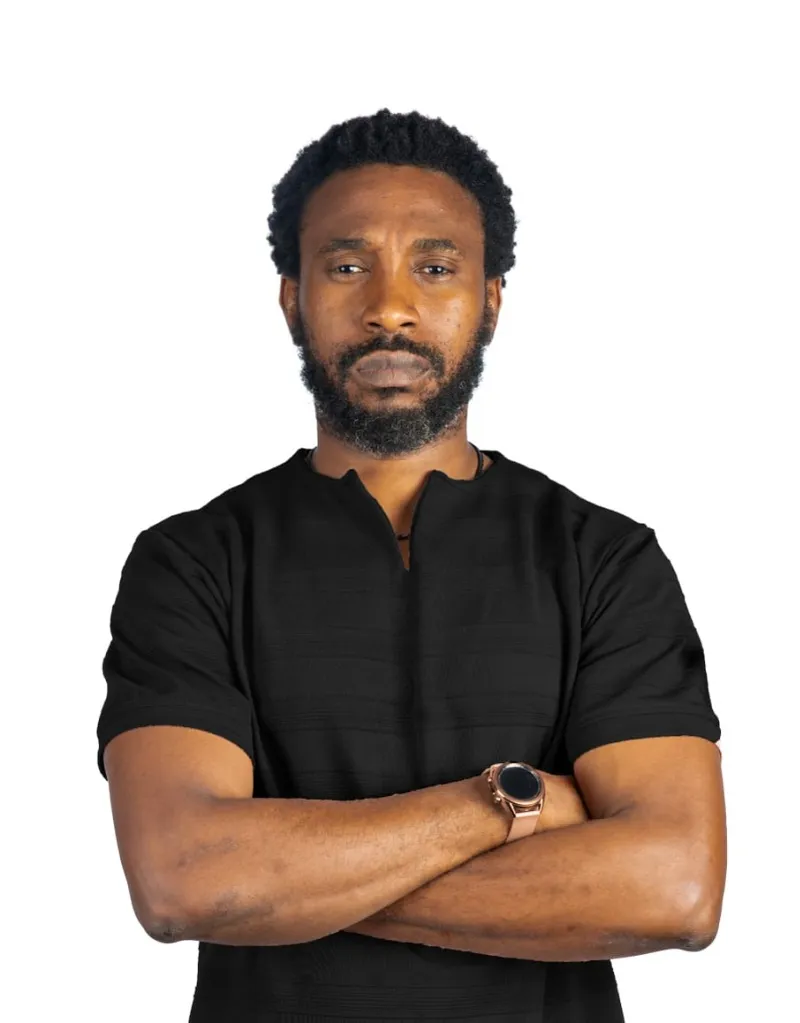
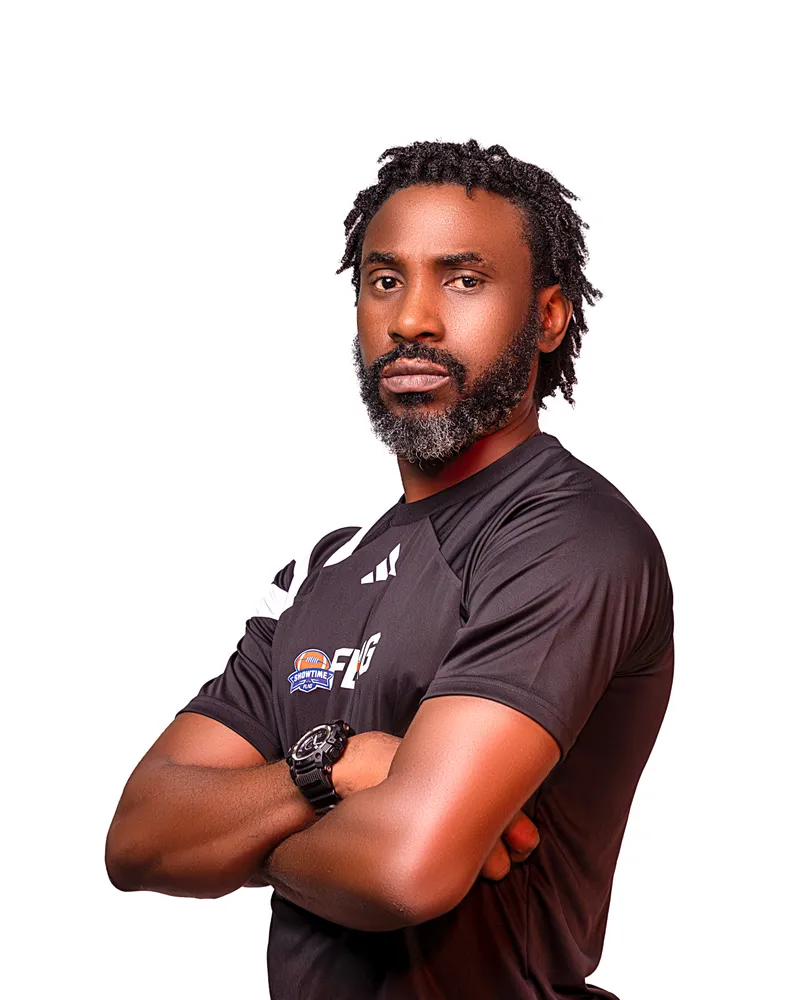
feat(about): redesign Our Team page and move FAQs into footer About column
Replaces the repetitive full-width leadership cards with a featured
navy band for the President and a sharp-cornered grid for the rest of
league leadership, trims every bio to two Showtime-centered paragraphs,
and adds a cropped team banner (converted to WebP, lazy-loaded). Also
updates the two VP/Commissioner headshots and makes the About hero's
background image span full width instead of cropping or shrinking.

Footer: FAQs now lives under About instead of Rules & Policy.

diff --git a/frontend/src/pages/about/OurTeam.tsx b/frontend/src/pages/about/OurTeam.tsx
@@ -3,7 +3,7 @@ interface TeamMember {
   role: string;
   image?: string;
   bio: string[];
-  /** Optional pill badge shown above the name (e.g. "Executive Leadership"). */
+  /** Eyebrow label shown above the name (e.g. "Executive Leadership"). */
   badge?: string;
 }
 
@@ -13,12 +13,8 @@ const PRESIDENT: TeamMember = {
   image: "/images/leadership/azeez_amida.webp",
   badge: "Executive Leadership",
   bio: [
-    "Azeez Amida is the Founder and President of Showtime Flag Football League and one of the leading figures behind the growth and professionalisation of flag football in Nigeria.",
-    "Under his leadership, Showtime has evolved into one of the world’s fastest growing coed professional flag football league, creating structured competitive and development opportunities for hundreds of male and female athletes.",
-    "His vision is to build Showtime into a nationally relevant sports and media institution that develops talent, creates sustainable sporting careers, strengthens communities and presents Nigerian flag football to a global audience.",
-    "Beyond sport, Amida is a business executive, investor and author with more than two decades of professional experience. He is the President and Founder of Fusewall Holdings, Chairman of Coloplus Limited, and a former Chief Executive Officer of Pan African Towers and IHS Rwanda. His experience in building and transforming businesses continues to shape Showtime’s commercial strategy, operating discipline and long-term ambition.",
-    "Amida is the author of How to Grow Anything: A 6-Step Guide for Growing People, Businesses and Ideas and EPE Principle: Enter, Perform, Exit. His work explores leadership, organisational transformation, career development and the systems required to achieve sustainable growth.",
-    "Connect with him across social media at @azeezamida.",
+    "Azeez Amida is the Founder and President of Showtime Flag Football League, one of the leading figures behind the growth and professionalisation of flag football in Nigeria. Under his leadership, Showtime has grown into one of the world's fastest-growing coed professional flag football leagues, creating structured competitive and development opportunities for hundreds of male and female athletes.",
+    "His vision is to build Showtime into a nationally relevant sports and media institution — developing talent, creating sustainable sporting careers, strengthening communities, and presenting Nigerian flag football to a global audience. A business executive and investor with more than two decades of experience, he brings that expertise directly to Showtime's commercial strategy, operating discipline, and long-term ambition.",
   ],
 };
 
@@ -28,121 +24,199 @@ const COMMISSIONER: TeamMember = {
   image: "/images/leadership/adebare_adejumo.webp",
   badge: "League Administration",
   bio: [
-    "Adebare Adejumo serves as the League Commissioner of Showtime Flag, where he oversees the governance, competitive integrity, and overall sporting operations of the league.",
-    "As the chief steward of competition, he works closely with teams, officials, and league stakeholders to ensure that Showtime Flag maintains the highest standards of fairness, professionalism, and excellence on and off the field. His leadership is instrumental in shaping league policies, managing competition structures, and supporting the continued growth of flag football across Nigeria and beyond.",
-    "Driven by a passion for sport development and athlete success, he remains committed to creating an environment where players, teams, and communities can thrive while advancing Showtime Flag's vision of becoming a leading force in global flag football.",
+    "Adebare Adejumo serves as the League Commissioner of Showtime Flag, overseeing the governance, competitive integrity, and overall sporting operations of the league. As chief steward of competition, he works closely with teams, officials, and league stakeholders to uphold the highest standards of fairness, professionalism, and excellence on and off the field.",
+    "His leadership shapes league policies, competition structures, and the continued growth of flag football across Nigeria and beyond — driven by a commitment to athlete success and an environment where players, teams, and communities can thrive.",
   ],
 };
 
-const LEADERS: TeamMember[] = [
-  {
-    name: "Kalu Esther",
-    role: "VP, Operations",
-    image: "/images/leadership/kalu_esther.webp",
-    badge: "Vice President",
-    bio: [
-      "Esther Kalu serves as the Vice President of Operations at Showtime Flag, overseeing the administrative and operational systems that support the league's day-to-day activities.",
-      "She plays a critical role in ensuring organizational efficiency, managing internal processes, coordinating logistics, and providing operational support across league functions. Her attention to detail and commitment to excellence help create the structure and stability necessary for Showtime Flag to deliver exceptional experiences for players, partners, and fans.",
-      "With a strong focus on organization and execution, she helps ensure that the league continues to operate smoothly while supporting its long-term growth and development.",
-    ],
-  },
-  {
-    name: "Ivie Okuns",
-    role: "VP, Commercials",
-    badge: "Vice President",
-    bio: [
-      "Ivie Okuns serves as the Vice President of Commercials at Showtime Flag, where she leads the league's commercial strategy, brand development, marketing, partnerships, and audience growth initiatives.",
-      "With a passion for building communities through sport and storytelling, Ivie has played a key role in shaping Showtime Flag's brand identity and expanding its reach among fans, partners, and stakeholders. Her work spans sponsorship acquisition, content strategy, digital marketing, event promotion, and business development, helping to position Showtime Flag as one of Africa's most innovative and fast-growing sports properties.",
-      "She remains committed to advancing Showtime Flag's mission of growing flag football, fostering community, and creating pathways for participation and excellence across the sport.",
-    ],
-  },
-];
+const KALU_ESTHER: TeamMember = {
+  name: "Kalu Esther",
+  role: "VP, Operations",
+  image: "/images/leadership/kalu_esther.webp",
+  badge: "Vice President",
+  bio: [
+    "Esther Kalu serves as Vice President of Operations at Showtime Flag, overseeing the administrative and operational systems that support the league's day-to-day activities.",
+    "She ensures organizational efficiency, manages internal processes, and coordinates logistics across league functions — the structure and stability behind every exceptional experience Showtime delivers for players, partners, and fans.",
+  ],
+};
 
-// Horizontal card with the picture on the left (top on mobile) and the
-// bio block on the right.
-const TeamMemberCard = ({ member }: { member: TeamMember }) => (
-  <div className="bg-white dark:bg-gray-800 rounded-2xl border border-gray-100 dark:border-gray-700 shadow-xl overflow-hidden group">
-    <div className="flex flex-col md:flex-row items-stretch">
-      {/* Image Container */}
-      <div className="w-full md:w-2/5 min-h-72 sm:min-h-90 md:min-h-115 relative overflow-hidden bg-gray-100 dark:bg-gray-900">
+const IVIE_OKUNS: TeamMember = {
+  name: "Ivie Okuns",
+  role: "VP, Commercials",
+  badge: "Vice President",
+  bio: [
+    "Ivie Okuns serves as Vice President of Commercials at Showtime Flag, leading the league's commercial strategy, brand development, marketing, partnerships, and audience growth.",
+    "Her work spans sponsorship, content strategy, digital marketing, and event promotion — shaping Showtime's brand identity and positioning it as one of Africa's most innovative, fast-growing sports properties.",
+  ],
+};
+
+const LEADERSHIP_TEAM: TeamMember[] = [COMMISSIONER, KALU_ESTHER, IVIE_OKUNS];
+
+// Flat navy feature band for the founder, reusing the Incubator section's
+// visual language (AboutShowtimeFlag.tsx) so top billing comes from scale
+// and color, not a different card style.
+const PresidentBand = ({ member }: { member: TeamMember }) => {
+  const initials = member.name
+    .split(" ")
+    .map((n) => n[0])
+    .join("");
+
+  return (
+    <section className="relative overflow-hidden bg-linear-to-r from-gray-900 to-sffl-navy text-white group">
+      <div className="flex flex-col md:flex-row items-stretch">
+        {/* Photo */}
+        <div className="relative w-full md:w-2/5 min-h-80 sm:min-h-96 overflow-hidden bg-black/20">
+          {member.image ? (
+            <img
+              src={member.image}
+              alt={member.name}
+              loading="lazy"
+              decoding="async"
+              className="absolute inset-0 h-full w-full object-cover object-top transition-transform duration-500 group-hover:scale-105"
+              onError={(e) => {
+                e.currentTarget.style.display = "none";
+              }}
+            />
+          ) : (
+            <div className="absolute inset-0 flex flex-col items-center justify-center bg-white/5 border border-white/10">
+              <span className="text-6xl font-black text-white/30">
+                {initials}
+              </span>
+              <span className="mt-3 text-[10px] font-black uppercase tracking-widest text-white/50">
+                Photo Coming Soon
+              </span>
+            </div>
+          )}
+          <div
+            className="absolute inset-0 bg-linear-to-t from-black/40 via-transparent to-transparent"
+            aria-hidden="true"
+          />
+        </div>
+
+        {/* Content */}
+        <div className="w-full md:w-3/5 p-5 sm:p-8 md:p-10 lg:p-12 flex flex-col justify-center gap-5 min-w-0">
+          {member.badge && (
+            <p className="flex items-center gap-3 text-[11px] font-black uppercase tracking-[0.25em] text-white/80">
+              <span
+                className="h-px w-8 shrink-0 bg-sffl-red"
+                aria-hidden="true"
+              />
+              {member.badge}
+            </p>
+          )}
+          <div>
+            <h2 className="text-3xl sm:text-4xl lg:text-5xl font-black uppercase leading-[0.95] tracking-tight text-white wrap-break-word">
+              {member.name}
+            </h2>
+            <p className="mt-2 text-base md:text-lg font-bold uppercase tracking-wide text-sffl-gold">
+              {member.role}
+            </p>
+          </div>
+          <span className="h-1 w-12 bg-sffl-red" aria-hidden="true" />
+          <div className="space-y-4">
+            {member.bio.map((para, index) => (
+              <p
+                key={index}
+                className="text-sm md:text-base text-gray-200 leading-relaxed font-medium"
+              >
+                {para}
+              </p>
+            ))}
+          </div>
+        </div>
+      </div>
+    </section>
+  );
+};
+
+// Compact vertical card for the league-leadership grid.
+const LeadershipCard = ({ member }: { member: TeamMember }) => {
+  const initials = member.name
+    .split(" ")
+    .map((n) => n[0])
+    .join("");
+
+  return (
+    <article className="group flex flex-col border border-gray-200 dark:border-gray-700 border-t-4 border-t-sffl-red bg-white dark:bg-gray-800">
+      <div className="relative w-full aspect-4/5 overflow-hidden bg-gray-100 dark:bg-gray-900">
         {member.image ? (
           <img
             src={member.image}
             alt={member.name}
             loading="lazy"
             decoding="async"
-            className="absolute inset-0 w-full h-full object-cover object-top transition-transform duration-500 group-hover:scale-105"
+            className="absolute inset-0 h-full w-full object-cover object-top transition-transform duration-500 group-hover:scale-105"
             onError={(e) => {
               e.currentTarget.style.display = "none";
             }}
           />
         ) : (
           <div className="absolute inset-0 bg-linear-to-br from-sffl-navy to-gray-900 flex flex-col items-center justify-center text-white">
-            <span className="text-5xl font-black opacity-40">
-              {member.name
-                .split(" ")
-                .map((n) => n[0])
-                .join("")}
-            </span>
-            <span className="text-[10px] font-black uppercase tracking-widest mt-3 opacity-60">
+            <span className="text-4xl font-black opacity-40">{initials}</span>
+            <span className="mt-3 text-[10px] font-black uppercase tracking-widest opacity-60">
               Photo Coming Soon
             </span>
           </div>
         )}
-        <div className="absolute inset-0 bg-linear-to-t from-gray-900/50 via-transparent to-transparent" />
       </div>
-      {/* Content */}
-      <div className="w-full md:w-3/5 p-4 sm:p-6 md:p-10 flex flex-col justify-center space-y-4 min-w-0">
+
+      <div className="flex flex-1 flex-col gap-3 p-5 sm:p-6 min-w-0">
+        {member.badge && (
+          <p className="flex items-center gap-2 text-[10px] font-black uppercase tracking-[0.2em] text-gray-500 dark:text-gray-400">
+            <span
+              className="h-px w-6 shrink-0 bg-sffl-red"
+              aria-hidden="true"
+            />
+            {member.badge}
+          </p>
+        )}
         <div>
-          {member.badge && (
-            <span className="px-3 py-1 bg-sffl-red text-white text-[10px] md:text-xs font-black uppercase rounded-full tracking-wider">
-              {member.badge}
-            </span>
-          )}
-          <h2
-            className={`text-2xl md:text-4xl font-black text-sffl-navy dark:text-white uppercase tracking-tight wrap-break-word ${member.badge ? "mt-3" : ""}`}
-          >
+          <h3 className="text-xl sm:text-2xl font-black text-sffl-navy dark:text-white uppercase tracking-tight wrap-break-word">
             {member.name}
-          </h2>
-          <p className="text-base md:text-lg text-sffl-red font-bold uppercase tracking-wide mt-1">
+          </h3>
+          <p className="mt-1 text-sm font-bold uppercase tracking-wide text-sffl-red">
             {member.role}
           </p>
         </div>
-        <div className="w-12 h-1 bg-sffl-red rounded" />
+        <span className="h-1 w-10 bg-sffl-red" aria-hidden="true" />
         <div className="space-y-3">
           {member.bio.map((para, index) => (
             <p
               key={index}
-              className="text-xs md:text-sm text-gray-600 dark:text-gray-300 leading-relaxed font-medium"
+              className="text-xs sm:text-sm text-gray-600 dark:text-gray-300 leading-relaxed font-medium"
             >
               {para}
             </p>
           ))}
         </div>
       </div>
-    </div>
-  </div>
-);
+    </article>
+  );
+};
 
 export const OurTeam = () => {
   return (
     <div className="space-y-8 md:space-y-12">
-      {/* Founder & President */}
-      <TeamMemberCard member={PRESIDENT} />
+      <div className="h-44 sm:h-56 md:h-72 lg:h-125 w-full overflow-hidden bg-gray-100 dark:bg-gray-900">
+        <img
+          src="/images/team/team-photo-1.webp"
+          alt="The Showtime Flag Football team"
+          loading="lazy"
+          decoding="async"
+          className="h-full w-full object-cover object-top"
+        />
+      </div>
 
-      {/* Commissioner Highlight */}
-      <TeamMemberCard member={COMMISSIONER} />
+      <PresidentBand member={PRESIDENT} />
 
-      {/* Vice Presidents */}
       <div className="space-y-6">
-        <div className="text-center md:text-left border-b border-gray-100 dark:border-gray-700 pb-3">
-          <h3 className="text-xl md:text-2xl font-black text-sffl-navy dark:text-white uppercase tracking-tight">
-            Vice Presidents
-          </h3>
-        </div>
-        <div className="space-y-6 md:space-y-8">
-          {LEADERS.map((leader, i) => (
-            <TeamMemberCard key={i} member={leader} />
+        <h2 className="mb-6 flex items-center gap-3 text-xl md:text-2xl font-black uppercase text-sffl-navy dark:text-white tracking-tight">
+          <span className="h-px w-8 shrink-0 bg-sffl-red" aria-hidden="true" />
+          League Leadership
+        </h2>
+        <div className="grid grid-cols-1 sm:grid-cols-2 lg:grid-cols-3 gap-6 md:gap-8">
+          {LEADERSHIP_TEAM.map((member, i) => (
+            <LeadershipCard key={i} member={member} />
           ))}
         </div>
       </div>

diff --git a/frontend/src/components/ui/PageHeader.tsx b/frontend/src/components/ui/PageHeader.tsx
@@ -10,18 +10,23 @@ interface PageHeaderProps {
     actions?: ReactNode;
     /** Decorative low-opacity background image behind the navy fill. */
     backgroundImage?: string;
+    /** `width` scales the image to span the hero's full width (height follows
+     * its own aspect ratio, cropped top/bottom only if it overflows) instead
+     * of the default `cover`, which crops whichever dimension overflows —
+     * including the sides, which can cut a group photo awkwardly narrow. */
+    backgroundFit?: 'cover' | 'width';
     /** Extra content inside the hero band, below the title row (e.g. a section nav). */
     children?: ReactNode;
     className?: string;
 }
 
 /** The flat navy hero band used across the public site's catalogue-style pages (see Tickets.tsx). */
-export const PageHeader = ({ eyebrow, title, subtitle, actions, backgroundImage, children, className = '' }: PageHeaderProps) => {
+export const PageHeader = ({ eyebrow, title, subtitle, actions, backgroundImage, backgroundFit = 'cover', children, className = '' }: PageHeaderProps) => {
     return (
         <section className={`relative overflow-hidden bg-sffl-navy text-white ${className}`}>
             {backgroundImage && (
                 <div
-                    className="absolute inset-0 bg-cover bg-center opacity-10"
+                    className={`absolute inset-0 bg-no-repeat opacity-10 ${backgroundFit === 'width' ? 'bg-top bg-size-[100%_auto]' : 'bg-cover bg-center'}`}
                     style={{ backgroundImage: `url('${backgroundImage}')` }}
                     aria-hidden="true"
                 />

diff --git a/frontend/src/components/layout/Footer.tsx b/frontend/src/components/layout/Footer.tsx
@@ -63,6 +63,12 @@ export const Footer = () => {
           >
             Sponsorships
           </Link>
+          <Link
+            to="/about/faq"
+            className="text-gray-300 hover:text-white text-sm min-h-11 flex items-center justify-center sm:justify-start"
+          >
+            FAQs
+          </Link>
         </div>
 
         {/* Rules & Policy — game rules + conduct + media */}
@@ -87,12 +93,6 @@ export const Footer = () => {
             className="text-gray-300 hover:text-white text-sm min-h-11 flex items-center justify-center sm:justify-start"
           >
             Media Guidelines
-          </Link>
-          <Link
-            to="/about/faq"
-            className="text-gray-300 hover:text-white text-sm min-h-11 flex items-center justify-center sm:justify-start"
-          >
-            FAQs
           </Link>
           <Link
             to="/about/whistleblower"

diff --git a/frontend/src/components/about/aboutNav.tsx b/frontend/src/components/about/aboutNav.tsx
@@ -7,6 +7,10 @@ export type AboutNavItem = {
   subtitle?: string;
   /** Real local photo only — no stock imagery. */
   backgroundImage?: string;
+  /** `width` scales the photo to span the hero's full width instead of
+   * cropping it to fill (the default `cover`) — for photos like a group
+   * shot where cropping cuts people off. */
+  backgroundFit?: "cover" | "width";
 };
 
 const LEAGUE_EYEBROW = "The league";
@@ -29,6 +33,7 @@ export const ABOUT_NAV: AboutNavItem[] = [
     title: "OUR TEAM",
     subtitle: "Showtime Leadership & Sporting Operations",
     backgroundImage: "/images/team/team-photo-1.webp",
+    backgroundFit: "width",
   },
   {
     to: "/about/arena",

diff --git a/frontend/src/components/about/AboutLayout.tsx b/frontend/src/components/about/AboutLayout.tsx
@@ -26,6 +26,7 @@ export const AboutLayout = () => {
           title={active.title}
           subtitle={active.subtitle}
           backgroundImage={active.backgroundImage}
+          backgroundFit={active.backgroundFit}
           actions={
             <img
               src="/images/branding/showtime-logo.webp"
